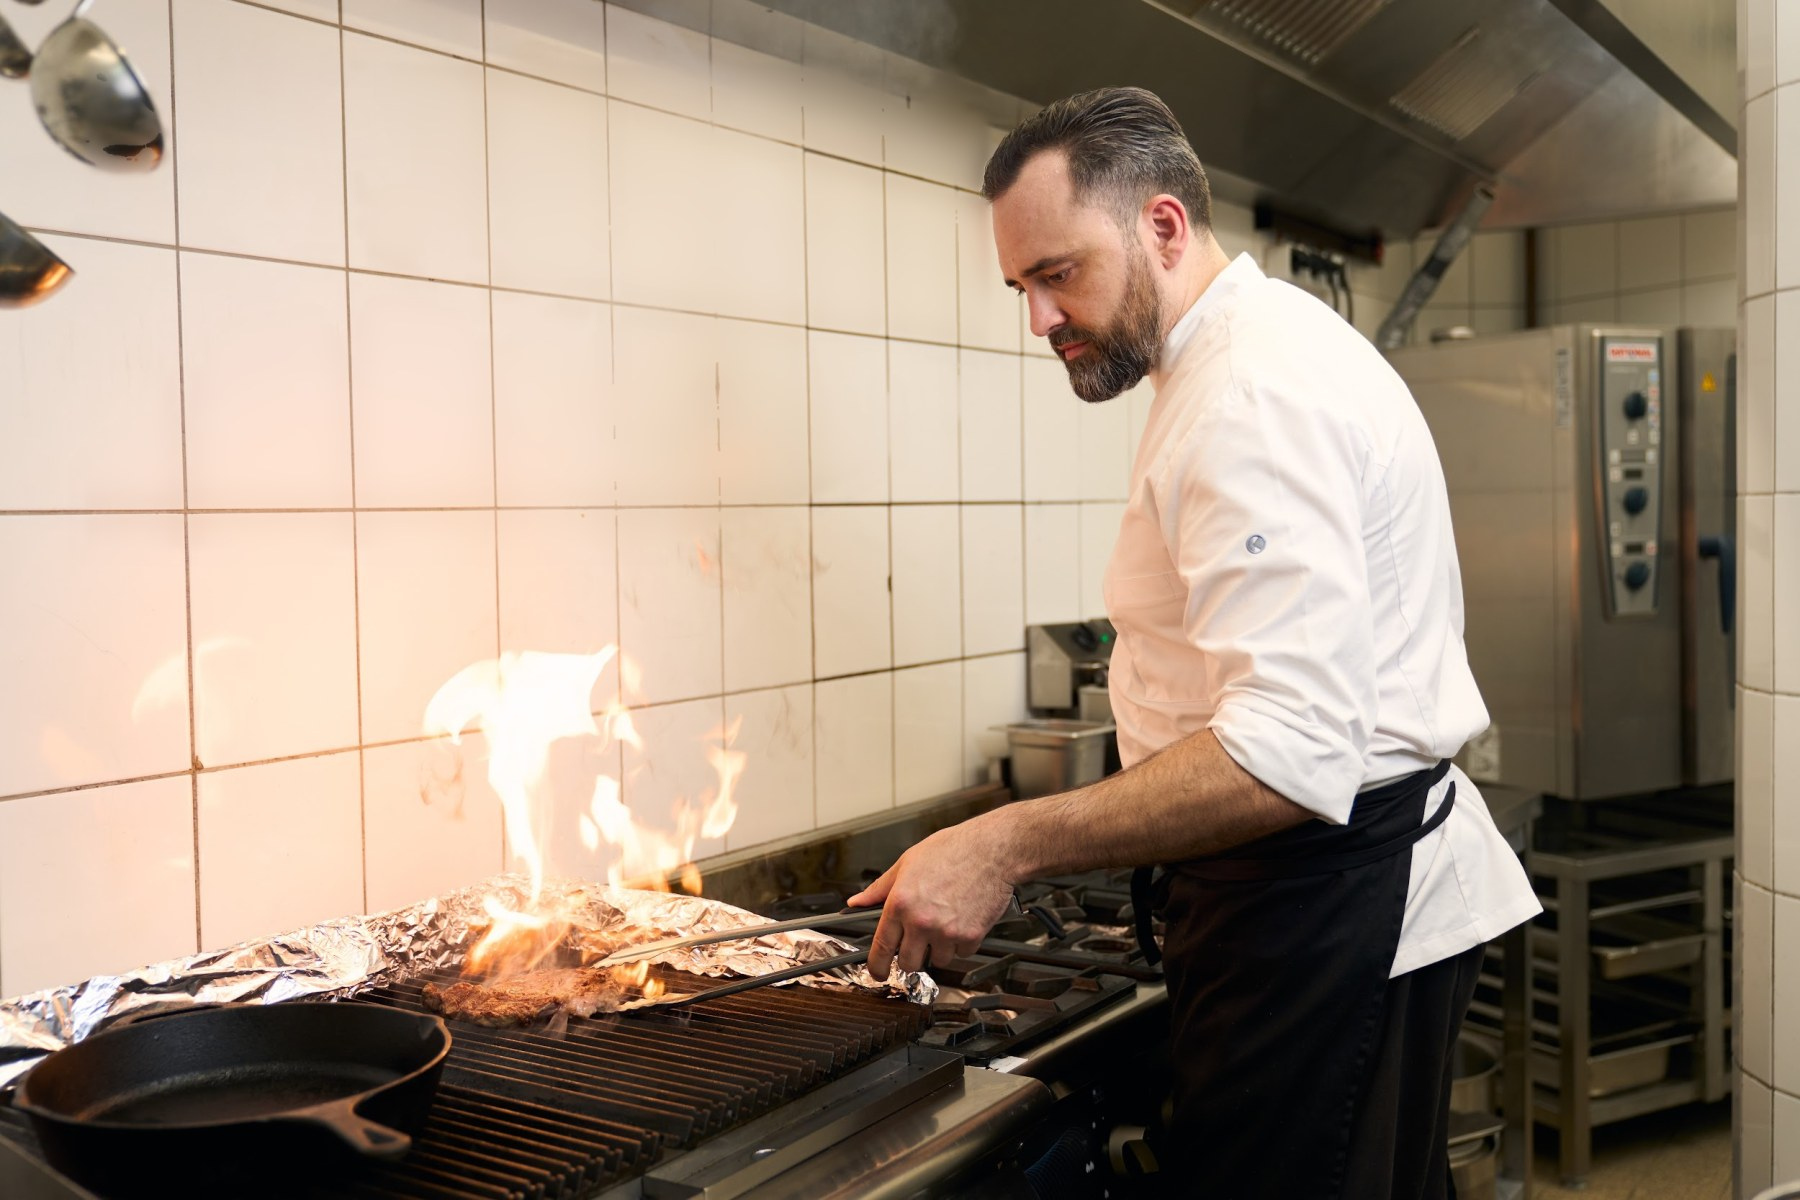
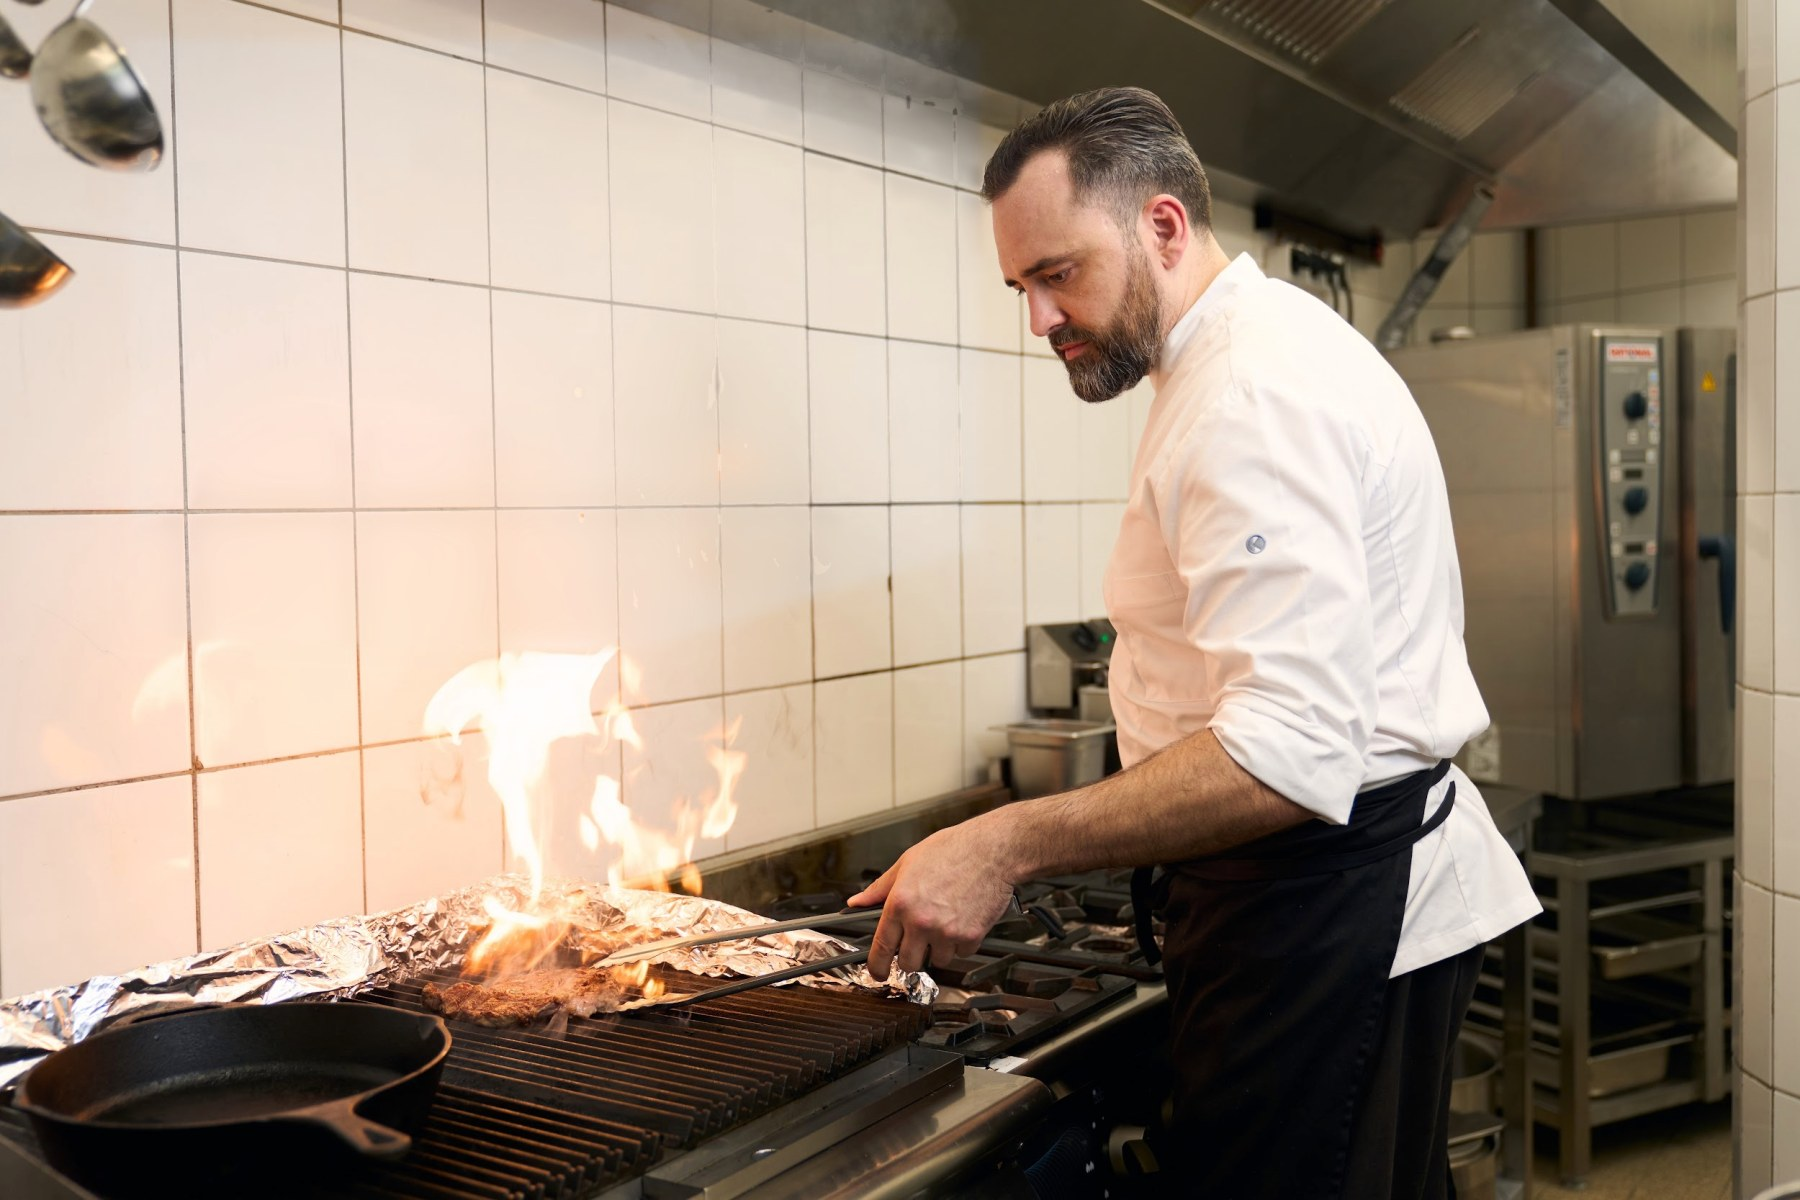
Neues Koch-Foto (Wand retuschiert) + besserer Instagram-Feed
- koch-grill.jpg: neue Aufnahme mit groesserer Flamme, weisse Fliesenwand sauber retuschiert (braune Fugen entsaettigt, Flecken entfernt, Flamme/Licht erhalten); in Kapitel III object-position 64% -> Koch-Gesicht sichtbar
- Instagram-Feed: 6 Text-Overlay-Bilder ersetzt durch saubere, appetitliche Motive (Cheesecake, Garnelen, Koch am Grill, georg. Salat, Lachs/Trueffelpommes, Abend-Ambiente)

diff --git a/index-foto.html b/index-foto.html
@@ -495,7 +495,7 @@ footer a:hover{color:#fff;text-decoration:underline}
   <!-- Kapitel 3: Der Name -->
   <section>
     <div class="wrap split">
-      <img class="reveal" src="bilder/koch-grill.jpg" alt="Unser Küchenchef am offenen Grill">
+      <img class="reveal" src="bilder/koch-grill.jpg" alt="Unser Küchenchef am offenen Grill" style="object-position:64% center">
       <div class="split-text reveal d1">
         <span class="chapter-no">Kapitel III</span>
         <h2 class="section-title">Warum Tamare?</h2>
@@ -597,12 +597,12 @@ footer a:hover{color:#fff;text-decoration:underline}
         <p class="lead" style="margin:0 auto">Neue Gerichte, Einblicke aus der Küche und besondere Abende – zuerst auf Instagram.</p>
       </div>
       <div class="insta-grid">
-        <a class="insta-post reveal" href="https://www.instagram.com/tamare.restaurant.dusseldorf/" target="_blank" rel="noopener"><img src="bilder/badridzhani.jpg" alt="Badridzhani Tamare"></a>
-        <a class="insta-post reveal d1" href="https://www.instagram.com/tamare.restaurant.dusseldorf/" target="_blank" rel="noopener"><img src="bilder/phali-trilogie.jpg" alt="Phali-Trilogie Tamare"></a>
-        <a class="insta-post reveal d2" href="https://www.instagram.com/tamare.restaurant.dusseldorf/" target="_blank" rel="noopener"><img src="bilder/grilllachs.jpg" alt="Grilllachs"></a>
-        <a class="insta-post reveal d1" href="https://www.instagram.com/tamare.restaurant.dusseldorf/" target="_blank" rel="noopener"><img src="bilder/wagyu-short-ribs.jpg" alt="Wagyu Short Ribs"></a>
-        <a class="insta-post reveal d2" href="https://www.instagram.com/tamare.restaurant.dusseldorf/" target="_blank" rel="noopener"><img src="bilder/cheesecake.jpg" alt="Hausgemachter Cheesecake"></a>
-        <a class="insta-post reveal d3" href="https://www.instagram.com/tamare.restaurant.dusseldorf/" target="_blank" rel="noopener"><img src="bilder/garnelen.jpg" alt="Gegrillte Garnelen"></a>
+        <a class="insta-post reveal" href="https://www.instagram.com/tamare.restaurant.dusseldorf/" target="_blank" rel="noopener"><img src="bilder/cheesecake-tee.jpg" alt="Basque Cheesecake mit Sanddorntee"></a>
+        <a class="insta-post reveal d1" href="https://www.instagram.com/tamare.restaurant.dusseldorf/" target="_blank" rel="noopener"><img src="bilder/tamare-foto-4.jpg" alt="Riesen-Garnelen vom Lavastein"></a>
+        <a class="insta-post reveal d2" href="https://www.instagram.com/tamare.restaurant.dusseldorf/" target="_blank" rel="noopener"><img src="bilder/koch-grill.jpg" alt="Am Lavastein-Grill" style="object-position:60% center"></a>
+        <a class="insta-post reveal d1" href="https://www.instagram.com/tamare.restaurant.dusseldorf/" target="_blank" rel="noopener"><img src="bilder/georgischer-salat.jpg" alt="Georgischer Salat Tamare"></a>
+        <a class="insta-post reveal d2" href="https://www.instagram.com/tamare.restaurant.dusseldorf/" target="_blank" rel="noopener"><img src="bilder/trueffel-pommes.jpg" alt="Grilllachs mit Trüffelpommes"></a>
+        <a class="insta-post reveal d3" href="https://www.instagram.com/tamare.restaurant.dusseldorf/" target="_blank" rel="noopener"><img src="bilder/interior-abend.jpg" alt="Das Tamare am Abend"></a>
       </div>
       <p class="reveal"><a class="btn gold" href="https://www.instagram.com/tamare.restaurant.dusseldorf/" target="_blank" rel="noopener">Auf Instagram folgen</a></p>
     </div>

diff --git a/index.html b/index.html
@@ -499,7 +499,7 @@ footer a:hover{color:#fff;text-decoration:underline}
   <!-- Kapitel 3: Der Name -->
   <section>
     <div class="wrap split">
-      <img class="reveal" src="bilder/koch-grill.jpg" alt="Unser Küchenchef am offenen Grill">
+      <img class="reveal" src="bilder/koch-grill.jpg" alt="Unser Küchenchef am offenen Grill" style="object-position:64% center">
       <div class="split-text reveal d1">
         <span class="chapter-no">Kapitel III</span>
         <h2 class="section-title">Warum Tamare?</h2>
@@ -601,12 +601,12 @@ footer a:hover{color:#fff;text-decoration:underline}
         <p class="lead" style="margin:0 auto">Neue Gerichte, Einblicke aus der Küche und besondere Abende – zuerst auf Instagram.</p>
       </div>
       <div class="insta-grid">
-        <a class="insta-post reveal" href="https://www.instagram.com/tamare.restaurant.dusseldorf/" target="_blank" rel="noopener"><img src="bilder/badridzhani.jpg" alt="Badridzhani Tamare"></a>
-        <a class="insta-post reveal d1" href="https://www.instagram.com/tamare.restaurant.dusseldorf/" target="_blank" rel="noopener"><img src="bilder/phali-trilogie.jpg" alt="Phali-Trilogie Tamare"></a>
-        <a class="insta-post reveal d2" href="https://www.instagram.com/tamare.restaurant.dusseldorf/" target="_blank" rel="noopener"><img src="bilder/grilllachs.jpg" alt="Grilllachs"></a>
-        <a class="insta-post reveal d1" href="https://www.instagram.com/tamare.restaurant.dusseldorf/" target="_blank" rel="noopener"><img src="bilder/wagyu-short-ribs.jpg" alt="Wagyu Short Ribs"></a>
-        <a class="insta-post reveal d2" href="https://www.instagram.com/tamare.restaurant.dusseldorf/" target="_blank" rel="noopener"><img src="bilder/cheesecake.jpg" alt="Hausgemachter Cheesecake"></a>
-        <a class="insta-post reveal d3" href="https://www.instagram.com/tamare.restaurant.dusseldorf/" target="_blank" rel="noopener"><img src="bilder/garnelen.jpg" alt="Gegrillte Garnelen"></a>
+        <a class="insta-post reveal" href="https://www.instagram.com/tamare.restaurant.dusseldorf/" target="_blank" rel="noopener"><img src="bilder/cheesecake-tee.jpg" alt="Basque Cheesecake mit Sanddorntee"></a>
+        <a class="insta-post reveal d1" href="https://www.instagram.com/tamare.restaurant.dusseldorf/" target="_blank" rel="noopener"><img src="bilder/tamare-foto-4.jpg" alt="Riesen-Garnelen vom Lavastein"></a>
+        <a class="insta-post reveal d2" href="https://www.instagram.com/tamare.restaurant.dusseldorf/" target="_blank" rel="noopener"><img src="bilder/koch-grill.jpg" alt="Am Lavastein-Grill" style="object-position:60% center"></a>
+        <a class="insta-post reveal d1" href="https://www.instagram.com/tamare.restaurant.dusseldorf/" target="_blank" rel="noopener"><img src="bilder/georgischer-salat.jpg" alt="Georgischer Salat Tamare"></a>
+        <a class="insta-post reveal d2" href="https://www.instagram.com/tamare.restaurant.dusseldorf/" target="_blank" rel="noopener"><img src="bilder/trueffel-pommes.jpg" alt="Grilllachs mit Trüffelpommes"></a>
+        <a class="insta-post reveal d3" href="https://www.instagram.com/tamare.restaurant.dusseldorf/" target="_blank" rel="noopener"><img src="bilder/interior-abend.jpg" alt="Das Tamare am Abend"></a>
       </div>
       <p class="reveal"><a class="btn gold" href="https://www.instagram.com/tamare.restaurant.dusseldorf/" target="_blank" rel="noopener">Auf Instagram folgen</a></p>
     </div>